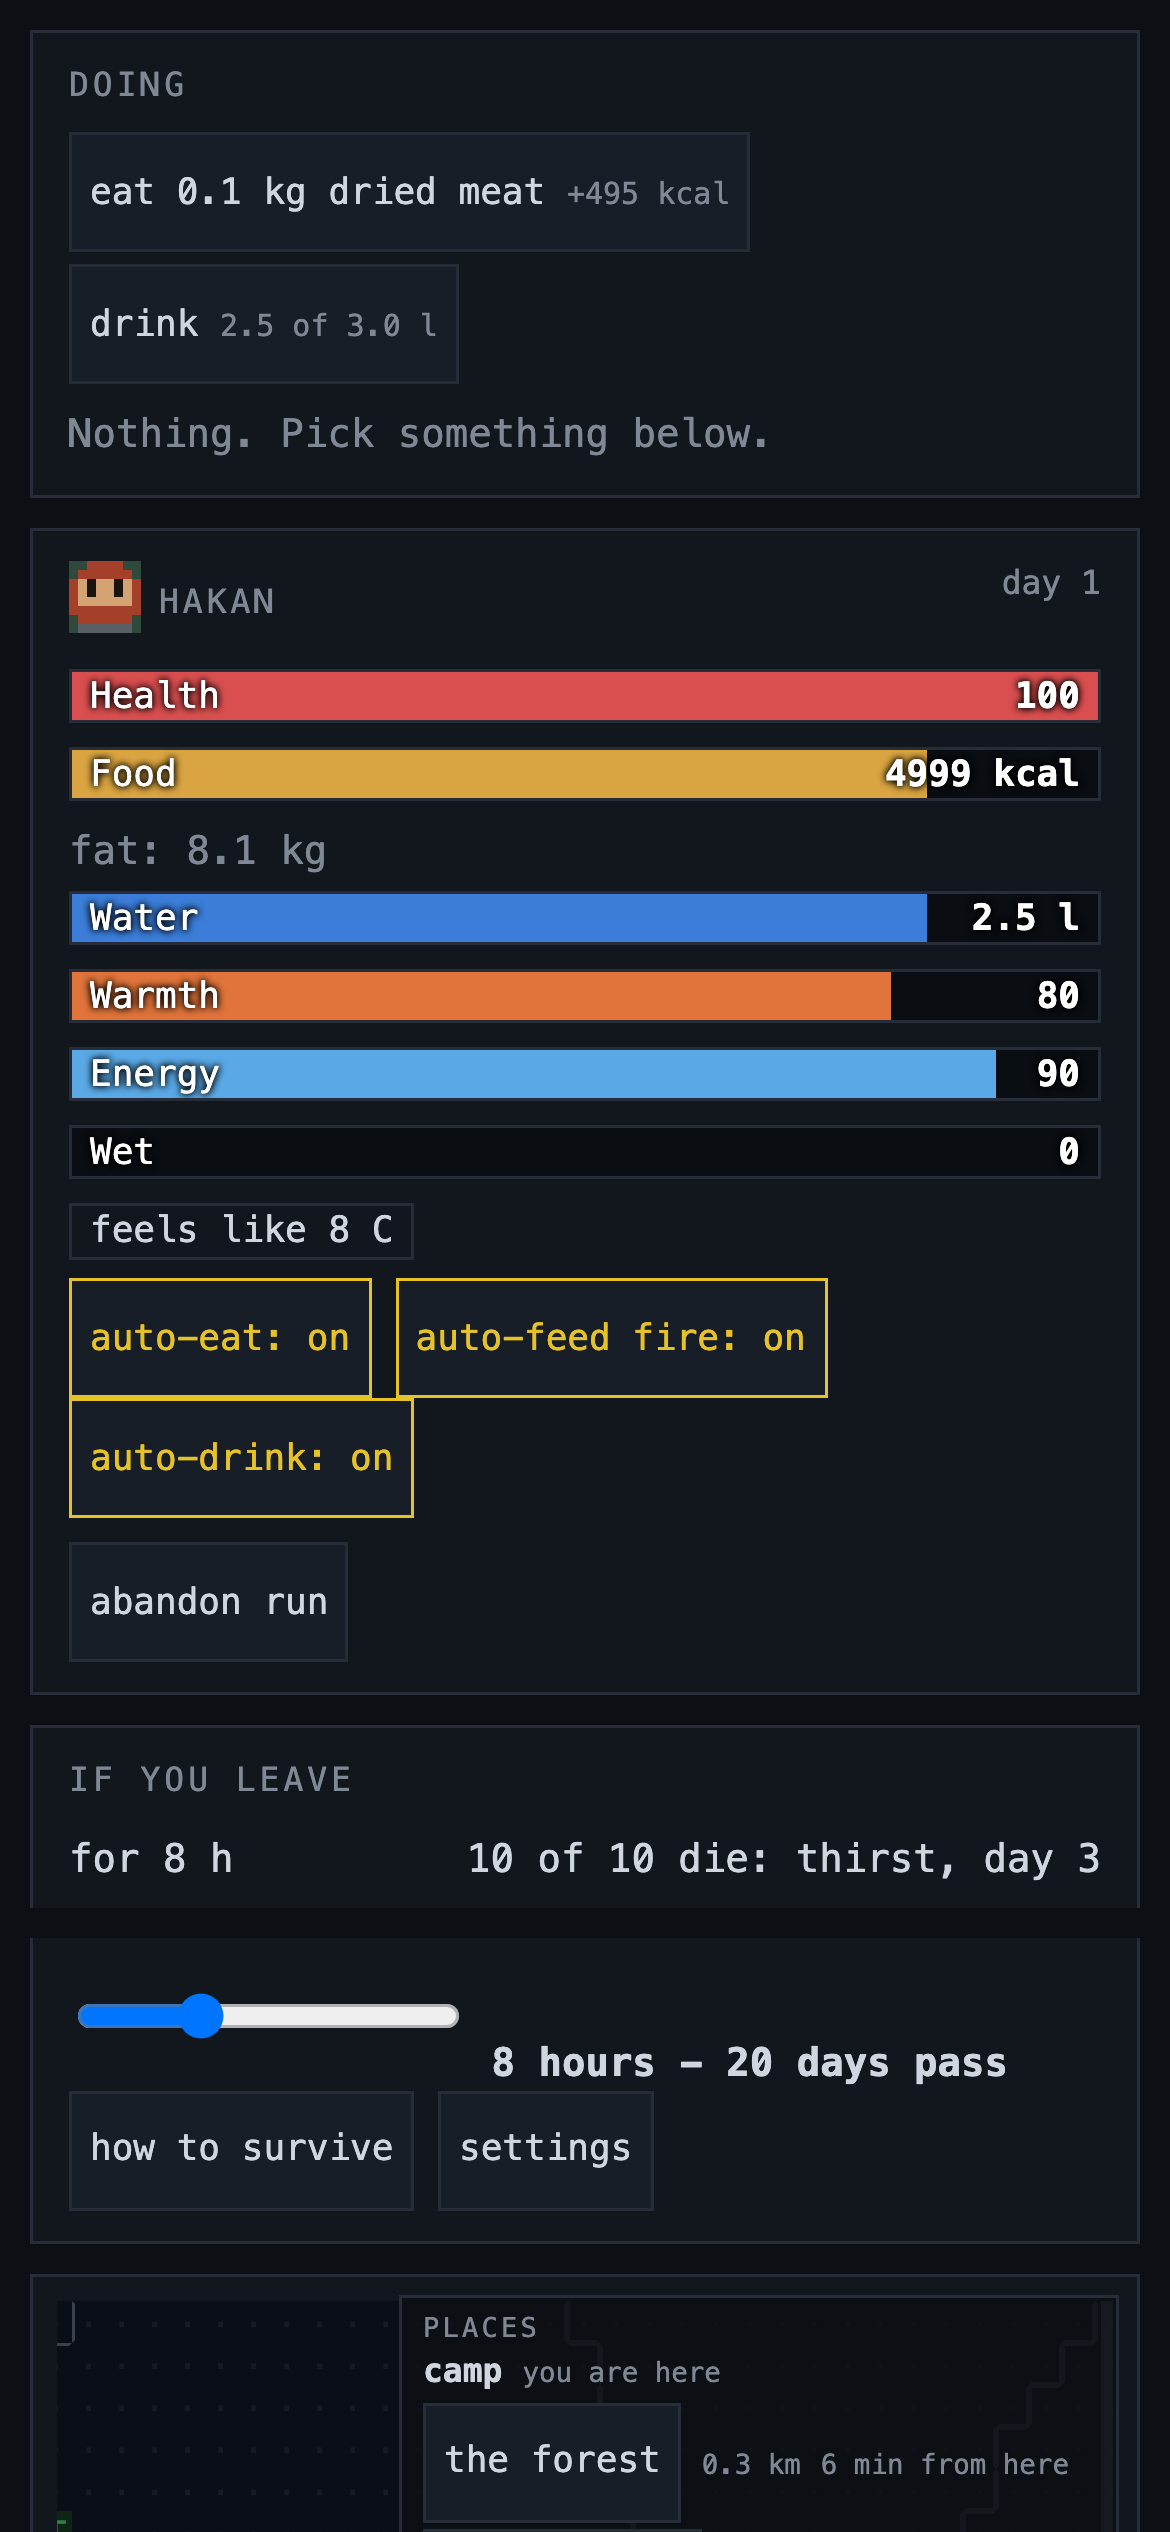
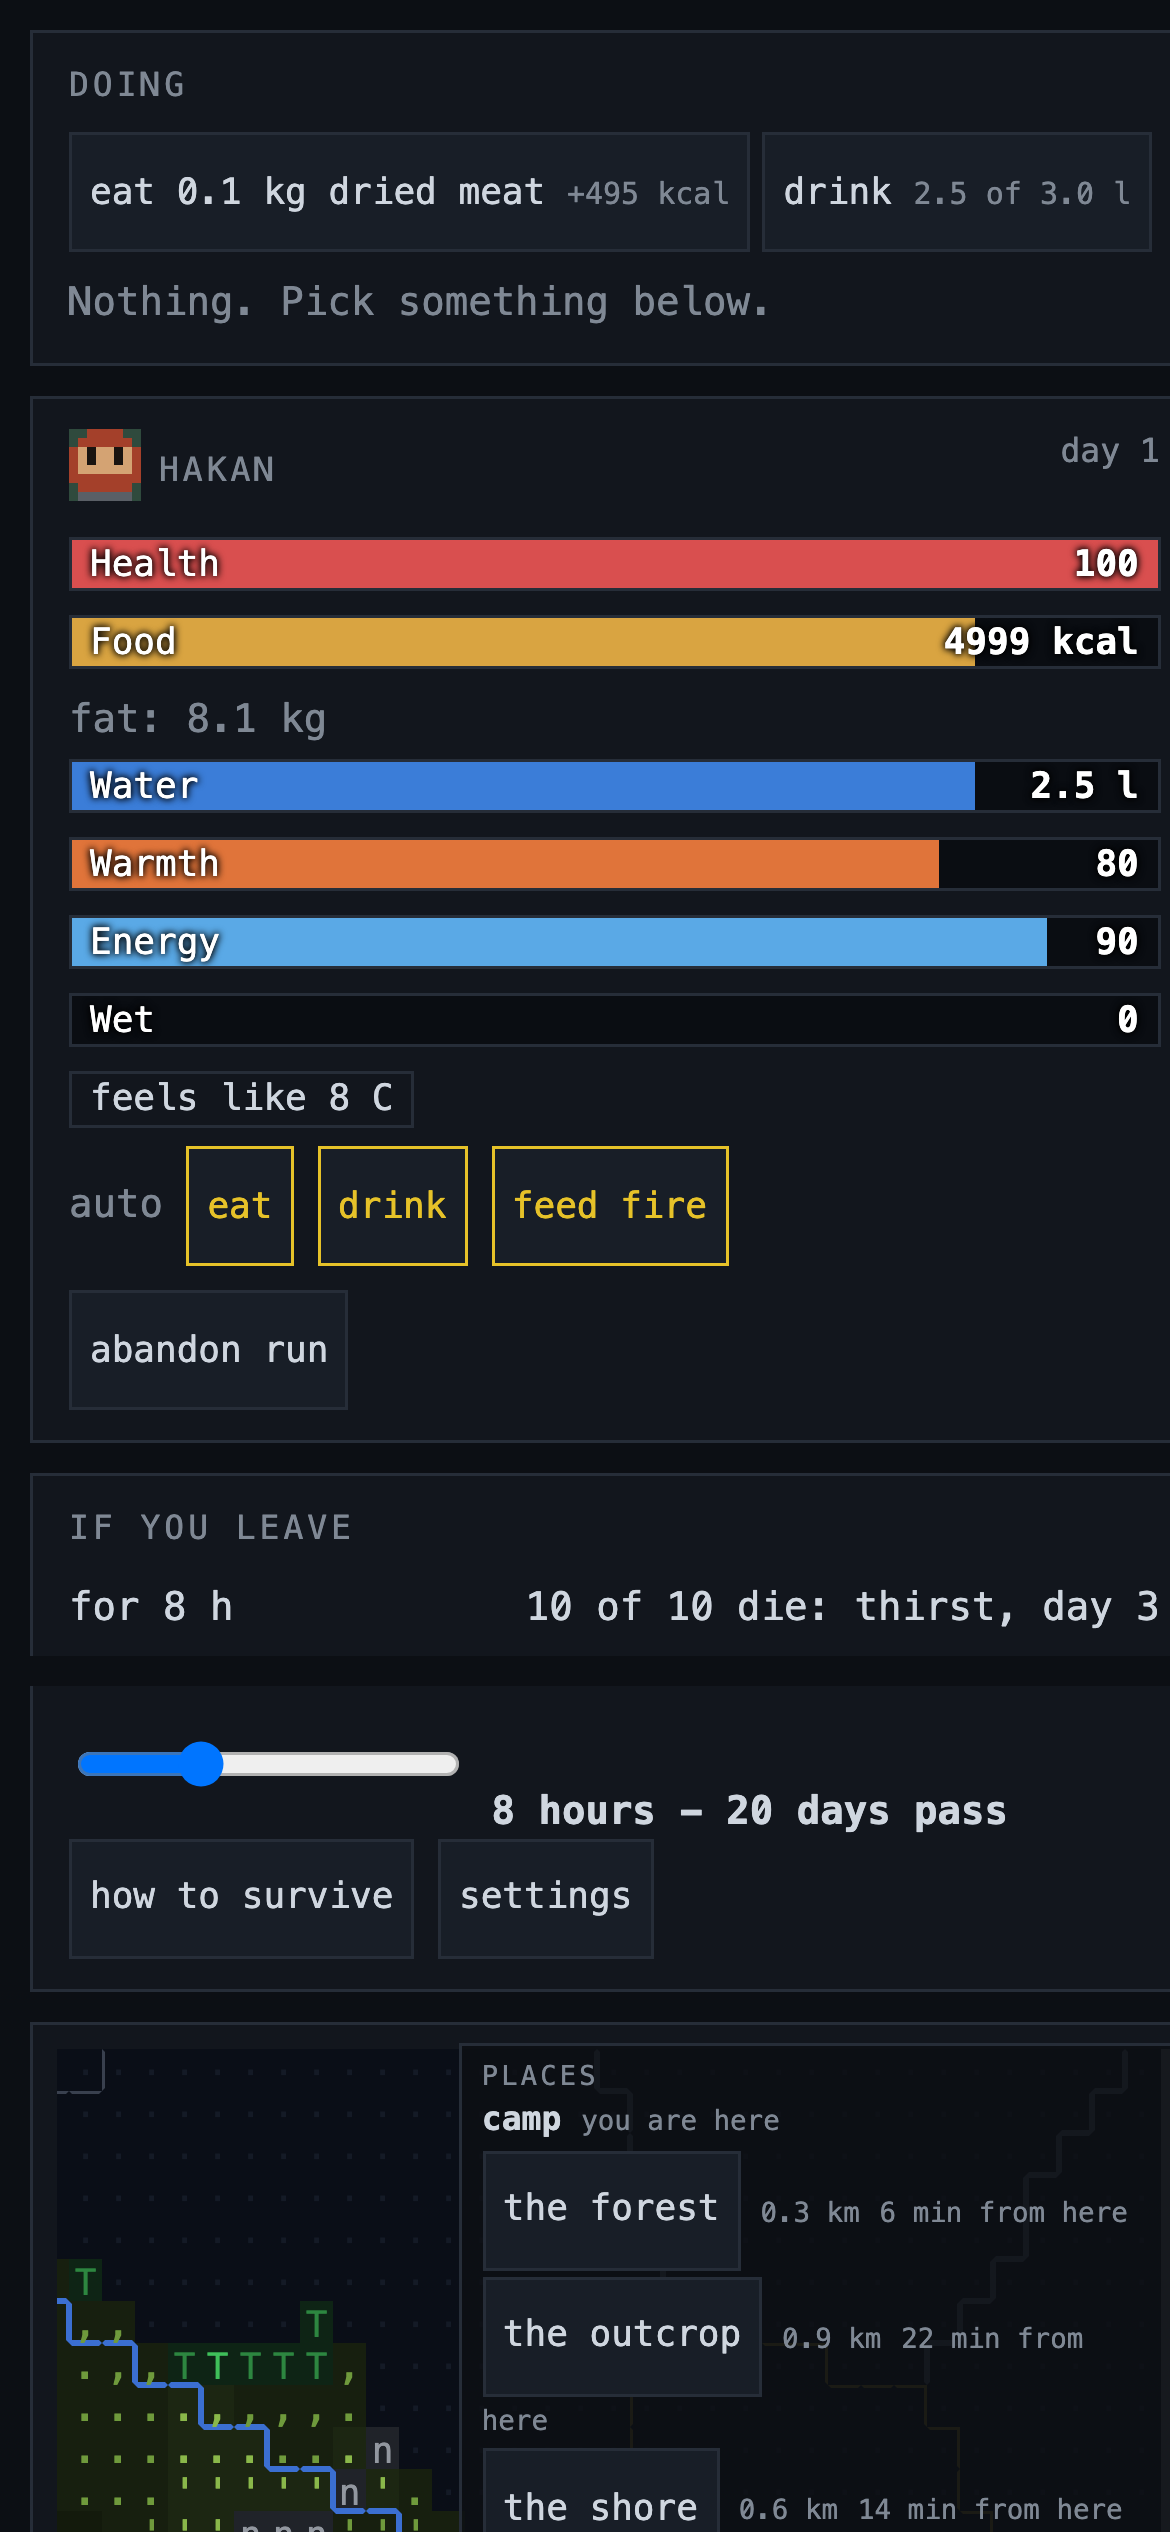
feat(survidle): the tester's four notes on the overhaul
Inventory, and the two halves inside it. The tab is Inventory rather than
Pack, because it was never only what the survivor carries: it draws the
pile on the ground under them too. Each half is its own bordered box now,
says whose it is, and carries only the buttons that half can offer - drop
from what is carried, take from the ground. They were two headings in one
flow, and a reader scanning for a thing could not tell which half they had
found it in, which matters because one has a weight limit that kills and
the other has none.

The auto toggles say "auto" once. Three buttons each repeating the prefix
took three lines of the info column for one idea; they are one line under
one heading.

The clock is a line and a square. What day and hour it is on the left, the
weather as its own tile on the right - a shape a reader already knows from
every weather widget they have used. The ground's depths and the warnings
are small print under it rather than headline text: whether there are two
or three centimetres of snow read as loudly as the hour, and it is not
that kind of fact.

The zoom is a corner note. No border, smaller type, dimmed until the
pointer is near it, with a shadow so the words stay readable over the
glyphs. It is nice to have and nobody came to the map to read it.

Claude-Session: https://claude.ai/code/session_014Jfc8UYRWVfVELr1NhBUqV

diff --git a/08-survidle/src/ui/panels.ts b/08-survidle/src/ui/panels.ts
@@ -120,10 +120,11 @@ ${bar("warmth", "warmth", "Warmth")}
 ${bar("energy", "energy", "Energy")}
 ${bar("wet", "wet", "Wet")}
 <div class="statuses">${tags.join("")}</div>
-<div>
-  <button class="mini${p.autoEat ? " on" : ""}" data-act="toggle-eat" title="Eat when the reserve drops under 1800 kcal">auto-eat: ${p.autoEat ? "on" : "off"}</button>
-  <button class="mini${p.autoFeed ? " on" : ""}" data-act="toggle-feed" title="Feed the fire from firewood at camp while you are there">auto-feed fire: ${p.autoFeed ? "on" : "off"}</button>
-  <button class="mini${p.autoDrink ? " on" : ""}" data-act="toggle-drink" title="Drink when the reserve drops under 1 litre, if a vessel or the water under foot allows">auto-drink: ${p.autoDrink ? "on" : "off"}</button>
+<div class="autos">
+  <span class="dim">auto</span>
+  <button class="mini${p.autoEat ? " on" : ""}" data-act="toggle-eat" title="Eat when the reserve drops under 1800 kcal">eat</button>
+  <button class="mini${p.autoDrink ? " on" : ""}" data-act="toggle-drink" title="Drink when the reserve drops under 1 litre, if a vessel or the water under foot allows">drink</button>
+  <button class="mini${p.autoFeed ? " on" : ""}" data-act="toggle-feed" title="Feed the fire from firewood at camp while you are there">feed fire</button>
 </div>
 <div style="margin-top:8px">
   ${ui.confirmAbandon
@@ -189,18 +190,25 @@ export function clockHtml(state: GameState, world: World, cal: Calendar, ambient
   const storm = state.weather.storm && stormNow(state.weather, state.minute)
     ? `<span class="bad">storm, ${fmtDuration(state.weather.storm.until - state.minute)} left</span>` : "";
   const dry = groundDry(state.weather, cal) ? `<span class="bad">tinder dry</span>` : "";
-  return `<div class="clockrow"><div class="line">
-<span class="big">Day ${cal.day}</span>
-<span>${fmtDate(cal)}, ${cal.season}</span>
-<span class="big">${fmtClock(cal.hour)}</span>
-<span>${sun}, light ${fmtClock(cal.sunrise)} to ${fmtClock(cal.sunset)}</span>
-<span class="${ambient < -10 ? "bad" : ""}">${Math.round(ambient)} C, ${weatherLabel(state.weather, ambient)}</span>
-${snow}
-${ice}
-${storm}
-${dry}
-<span class="${rate > 1 ? "hurrying" : "dim"}">1 s = ${Math.round(GAME_MINUTES_PER_REAL_SECOND * rate)} game min</span>
-</div>${skyHtml()}</div>`;
+  // The ground's depths and the warnings: true, and rarely the thing a
+  // player is looking at the clock to learn. They sit under the weather as
+  // small print rather than in the headline, where three centimetres of
+  // snow read as loudly as the hour.
+  const ground = [snow, ice, storm, dry].filter(Boolean).join(" ");
+  return `<div class="clockrow">
+<div class="when">
+<div class="big">Day ${cal.day} <span class="hour">${fmtClock(cal.hour)}</span></div>
+<div class="dim">${fmtDate(cal)}, ${cal.season}</div>
+<div class="dim">${sun}, light ${fmtClock(cal.sunrise)} to ${fmtClock(cal.sunset)}</div>
+<div class="${rate > 1 ? "hurrying" : "dim"}">1 s = ${Math.round(GAME_MINUTES_PER_REAL_SECOND * rate)} game min</div>
+</div>
+<div class="weather">
+${skyHtml()}
+<div class="temp ${ambient < -10 ? "bad" : ""}">${Math.round(ambient)} C</div>
+<div class="sky-word">${weatherLabel(state.weather, ambient)}</div>
+${ground ? `<div class="ground">${ground}</div>` : ""}
+</div>
+</div>`;
 }
 
 /**
@@ -546,17 +554,34 @@ function haulHtml(state: GameState, world: World, cal: Calendar): string {
   return `<div style="margin-top:4px"><button class="mini" data-act="task" data-id="haul">haul it all to camp <small>${esc(plain(o.detail))}, ${fmtDuration(o.duration)}</small></button></div>`;
 }
 
+/**
+ * Everything within reach, in two halves that must not be mistaken for
+ * each other: what the survivor carries, and what is lying on the ground
+ * under them.
+ *
+ * They were two headings in one flow, and a reader scanning for a thing
+ * could not tell which half they had found it in - which matters, because
+ * the carried half has a weight limit that kills and the ground half has
+ * none. Each is its own bordered box, says whose it is, and carries only
+ * the buttons that half can offer: drop from the pack, take from the
+ * ground.
+ */
 export function inventoryHtml(state: GameState, world: World, cal: Calendar): string {
   const p = state.player;
   const kg = weight(p.pack);
   const d = body(state);
   const over = kg > d.packHardKg ? "bad" : kg > d.packComfortableKg ? "accent" : "";
+  const carried = listItems(p.pack);
   const here = herePile(state, world);
-  return `<h2>Pack <span class="r ${over}">${fmtKg(kg)} of ${d.packComfortableKg} kg comfortable, ${d.packHardKg} kg max</span></h2>
-${invRows(listItems(p.pack), "drop")}
-${listItems(p.pack).length ? `<div style="margin-top:4px"><button class="mini" data-act="drop-all">drop everything here</button></div>` : ""}
-<h2 style="margin-top:10px">On the ground here, ${esc(describeWhere(state, world))} <span class="r">${fmtKg(weight(here))}</span></h2>
-${invRows(listItems(here), "take")}${haulHtml(state, world, cal)}`;
+  const dropAll = carried.length ? `<div class="invact"><button class="mini" data-act="drop-all">drop everything here</button></div>` : "";
+  return `<div class="invsec carry" data-inv="carry">
+<h2>Carried <span class="r ${over}">${fmtKg(kg)} of ${d.packComfortableKg} kg comfortable, ${d.packHardKg} kg max</span></h2>
+${invRows(carried, "drop")}${dropAll}
+</div>
+<div class="invsec ground" data-inv="ground">
+<h2>On the ground, ${esc(describeWhere(state, world))} <span class="r">${fmtKg(weight(here))}</span></h2>
+${invRows(listItems(here), "take")}${haulHtml(state, world, cal)}
+</div>`;
 }
 
 export function fmtLogTime(e: LogEntry): string {

diff --git a/08-survidle/src/style.css b/08-survidle/src/style.css
@@ -340,14 +340,25 @@ button.act small.warn, span.act small.warn, .opt.off span.act small.warn { color
 .grid .c.fog::before { content: "\00b7"; }
 .grid .c.void { color: transparent; background: #05070c; }
 .grid .c.dim { opacity: 0.45; }
+/* Set and forget: the zoom sits in the map's corner as a note rather than a
+   panel of its own. It is nice to have and it is not what anybody came to
+   the map to read, so it takes no border and no full-sized type. */
 .maptools {
   position: absolute; left: 6px; bottom: 6px; z-index: 3;
-  display: flex; gap: 6px; align-items: center;
-  padding: 3px 6px;
-  background: rgba(5, 7, 12, 0.82);
-  border: 1px solid var(--line);
+  display: flex; gap: 5px; align-items: center;
+  font-size: 10px;
+  opacity: 0.7;
 }
-.maptools button.mini { min-width: 22px; }
+.maptools:hover { opacity: 1; }
+/* No box, so the ground shows through behind it: a shadow keeps the words
+   readable over glyphs without giving them a panel back. */
+.maptools span { text-shadow: 0 0 3px #05070c, 0 0 2px #05070c; }
+.maptools button.mini {
+  min-width: 18px;
+  font-size: 10px;
+  padding: 0 4px;
+  background: rgba(5, 7, 12, 0.7);
+}
 .legend .fog-key { color: #4a5160; }
 /* Your walk: a line through the glyph centres, solid ahead, dashed behind. It sits after the shade
    and carries no z-index, so it is over the night and under the @ and the fire glow. */
@@ -683,6 +694,44 @@ button.act small, span.act small { display: block; color: var(--dim); }
 
 /* Inventory */
 .inv { display: grid; grid-template-columns: 1fr auto; gap: 2px 8px; align-items: center; }
+
+/* What you carry and what is lying under you are two different things: one
+   has a weight limit that kills and the other has none. They were two
+   headings in one flow, and a reader scanning for something could not tell
+   which half they had found it in. */
+.invsec { border: 1px solid var(--line); padding: 6px 9px; }
+.invsec + .invsec { margin-top: 8px; }
+.invsec.carry { border-left: 2px solid var(--accent); }
+.invsec.ground { border-left: 2px solid var(--dim); }
+.invsec h2 { margin-top: 0; }
+.invact { margin-top: 4px; }
+
+/* The clock reads as a line and a square beside it: what day and hour it
+   is on the left, the weather as its own tile on the right. The ground's
+   depths and the warnings are small print under the weather rather than
+   headline text - three centimetres of snow read as loudly as the hour. */
+#clock .clockrow { display: flex; gap: 12px; align-items: flex-start; justify-content: space-between; }
+#clock .when { display: flex; flex-direction: column; gap: 2px; min-width: 0; }
+#clock .when .big { font-size: 16px; color: #fff; }
+#clock .when .hour { margin-left: 8px; }
+#clock .weather {
+  flex: 0 0 auto;
+  display: grid;
+  grid-template-columns: auto 1fr;
+  grid-template-areas: "sky temp" "sky word" "ground ground";
+  gap: 0 8px;
+  align-items: center;
+  text-align: right;
+  padding: 4px 6px;
+  border: 1px solid var(--line);
+  min-width: 150px;
+}
+#clock .weather .sky { grid-area: sky; }
+#clock .weather .temp { grid-area: temp; font-size: 16px; color: #fff; align-self: end; }
+#clock .weather .sky-word { grid-area: word; color: var(--dim); align-self: start; }
+#clock .weather .ground { grid-area: ground; color: var(--dim); font-size: 11px; text-align: right; margin-top: 2px; }
+#clock .weather .ground .bad { color: var(--bad); }
+
 .inv .n { white-space: nowrap; }
 .inv .ctl { white-space: nowrap; }
 

diff --git a/08-survidle/tests/words.test.ts b/08-survidle/tests/words.test.ts
@@ -15,6 +15,7 @@ import { newGame } from "../src/sim/newgame";
 import { die } from "../src/sim/player";
 import { addOrder, ordersHere } from "../src/sim/orders";
 import { check } from "../src/sim/tasks";
+import { herePile } from "../src/sim/inventory";
 import { inventoryHtml, landingHtml, logHtml, ordersHtml } from "../src/ui/panels";
 import { regionAt } from "../src/world/gen";
 
@@ -97,5 +98,44 @@ describe("the pack says what each thing weighs", () => {
     const at = html.indexOf("firewood");
     expect(at).toBeGreaterThan(-1);
     expect(html.slice(at, at + 120)).toMatch(/5(\.0)? kg/);
+  });
+});
+
+
+describe("carried and on the ground are two halves", () => {
+  it("each is its own box, and says which it is", () => {
+    const { state, world } = newGame(21);
+    const cal = calendar(state.minute, state.startDoy);
+    addItem(state.player.pack, "firewood", 2);
+    addItem(herePile(state, world), "stone", 3);
+    const html = inventoryHtml(state, world, cal);
+    // One has a weight limit that kills and the other has none, so a reader
+    // scanning for a thing must be able to tell which half they found it in.
+    expect(html).toContain('data-inv="carry"');
+    expect(html).toContain('data-inv="ground"');
+    expect(html).toContain("Carried");
+    expect(html).toContain("On the ground");
+  });
+
+  it("only the carried half offers to drop, and only the ground half to take", () => {
+    const { state, world } = newGame(21);
+    const cal = calendar(state.minute, state.startDoy);
+    addItem(state.player.pack, "firewood", 2);
+    addItem(herePile(state, world), "stone", 3);
+    const html = inventoryHtml(state, world, cal);
+    const carry = html.slice(html.indexOf('data-inv="carry"'), html.indexOf('data-inv="ground"'));
+    const ground = html.slice(html.indexOf('data-inv="ground"'));
+    expect(carry).toContain('data-act="drop"');
+    expect(carry).not.toContain('data-act="take"');
+    expect(ground).toContain('data-act="take"');
+    expect(ground).not.toContain('data-act="drop"');
+  });
+
+  it("the carried half says what the limit is, because that one can kill you", () => {
+    const { state, world } = newGame(21);
+    const cal = calendar(state.minute, state.startDoy);
+    const html = inventoryHtml(state, world, cal);
+    expect(html).toMatch(/comfortable/);
+    expect(html).toMatch(/max/);
   });
 });

diff --git a/08-survidle/tests/ui.test.ts b/08-survidle/tests/ui.test.ts
@@ -318,7 +318,7 @@ describe("panels", () => {
     const cal = calendar(0);
     document.body.insertAdjacentHTML("beforeend", `<div id="clock"></div>`);
     setPanel("clock", clockHtml(state, world, cal, 5));
-    expect(document.querySelector("#clock .dim")?.textContent).toBe("1 s = 1 game min");
+    expect(document.querySelector("#clock .when > :last-child")?.textContent).toBe("1 s = 1 game min");
     expect(document.querySelectorAll("#clock .hurrying").length).toBe(0);
     setPanel("clock", clockHtml(state, world, cal, 5, 6));
     expect(document.querySelector("#clock .hurrying")?.textContent).toBe("1 s = 6 game min");

diff --git a/08-survidle/src/ui/panes.ts b/08-survidle/src/ui/panes.ts
@@ -25,7 +25,7 @@ export type PaneId = "do" | "log" | "pack" | "journal";
  */
 export const PANE_IDS: PaneId[] = ["do", "pack", "log", "journal"];
 
-const PANE_LABEL: Record<PaneId, string> = { do: "Do", log: "Log", pack: "Pack", journal: "Journal" };
+const PANE_LABEL: Record<PaneId, string> = { do: "Do", pack: "Inventory", log: "Log", journal: "Journal" };
 
 export interface Panes {
   pane: PaneId;
